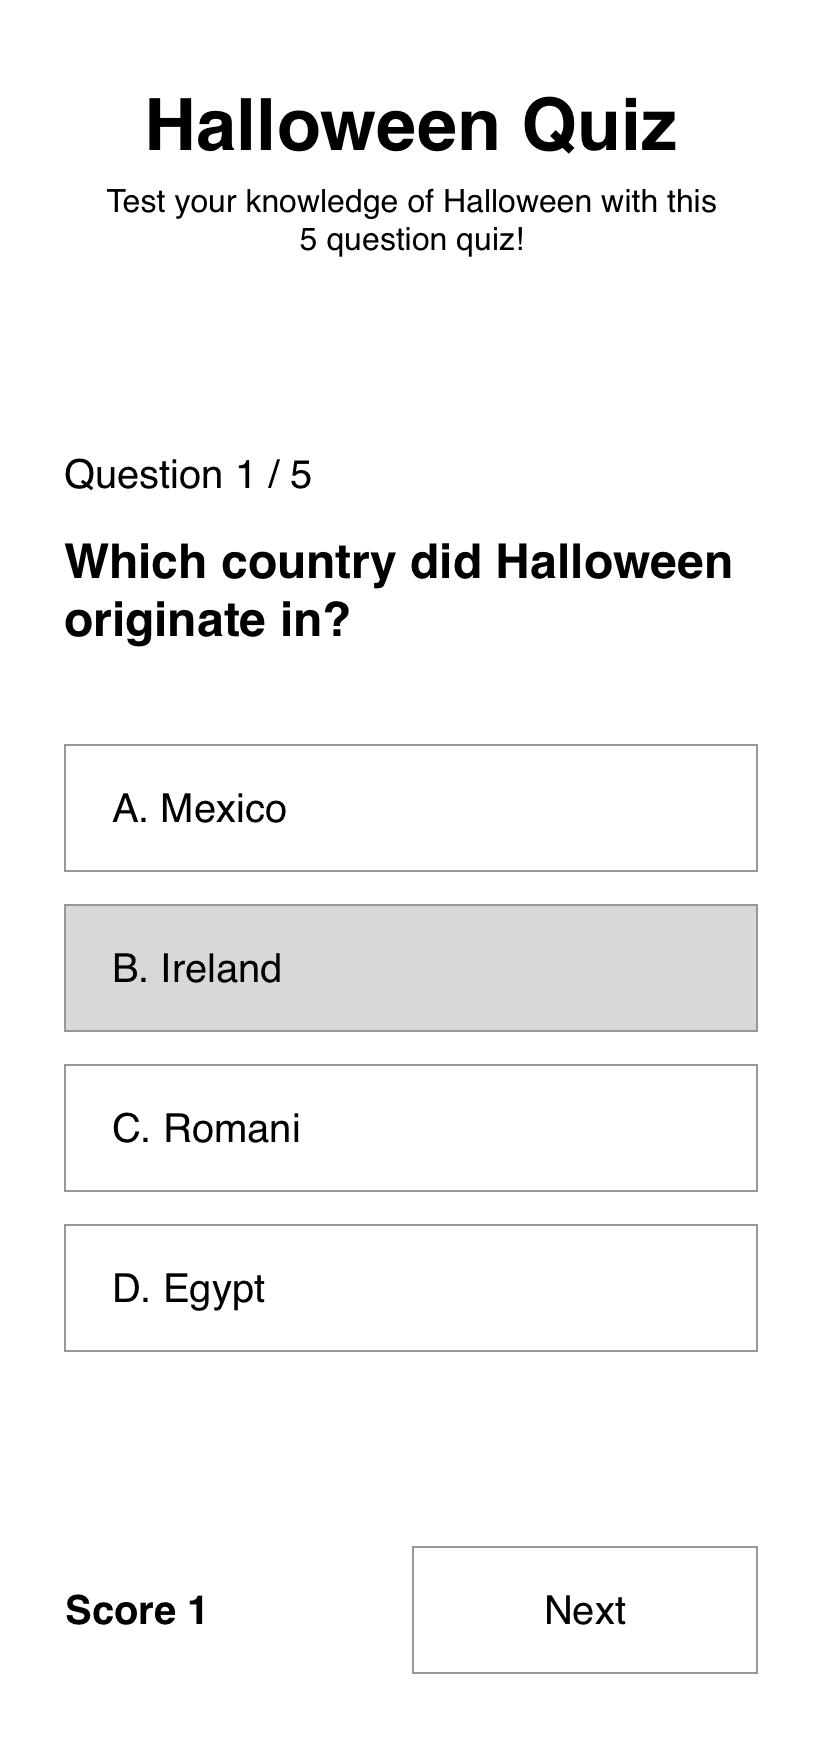
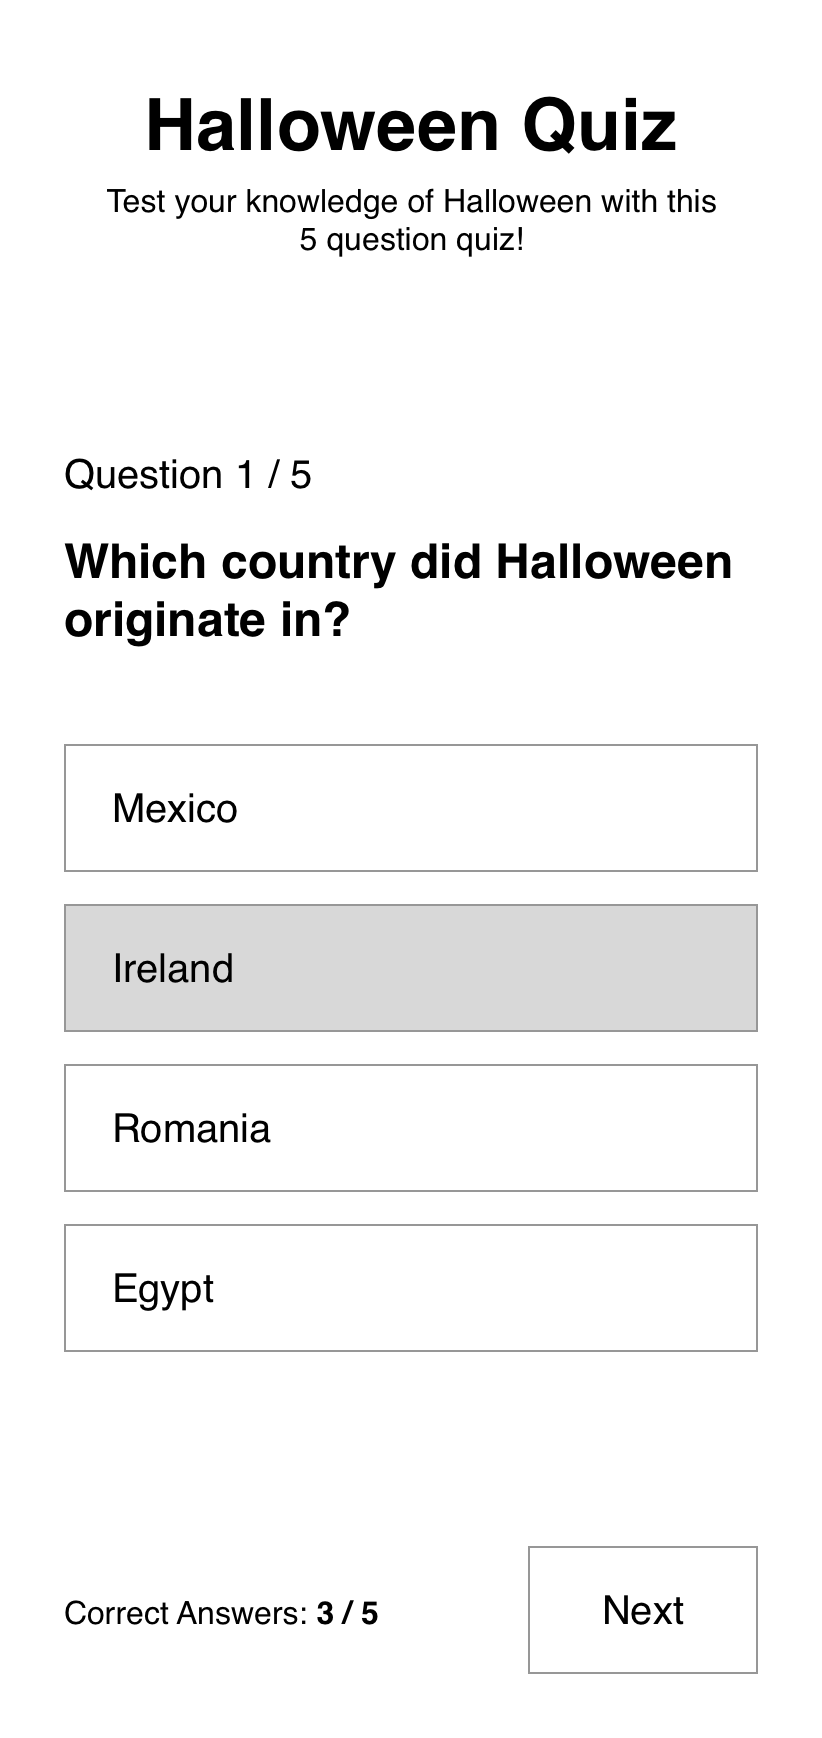
Add assets and finalized prototype

diff --git a/index.html b/index.html
@@ -9,6 +9,145 @@
     <link rel="stylesheet" href="main.css">
 </head>
 <body>
-    
+    <header class="header">
+        <h1 class="header__text">Halloween Quiz</h1>
+        <p class="header__description">Test your knowledge of Halloween with this 5 question quiz!</p>
+    </header>
+    <main class="main">
+        <article>
+            <section class="center">
+                <button class="button">Start Quiz!</button>
+            </section>
+            <section>
+                <form class="question">
+                    <h3 class="question__number">Question 1 / 5</h3>
+                    <h2 class="question__text">Which country did Halloween originate in?</h2>
+                    <ul>
+                        <li class="answer">
+                            <label for="q1a">Mexico</label>
+                            <input type="radio" id="q1a" name="q1" value="Mexico">
+                        </li>
+                        <li class="answer answer--selected">
+                            <label for="q1b">Ireland</label>
+                            <input type="radio" id="q1b" name="q1" value="Ireland">
+                        </li>
+                        <li class="answer">
+                            <label for="q1c">Romania</label>
+                            <input type="radio" id="q1c" name="q1" value="Romania">
+                        </li>
+                        <li class="answer">
+                            <label for="q1d">Egypt</label>
+                            <input type="radio" id="q1d" name="q1" value="Egypt">
+                        </li>
+                    </ul>
+                </form>
+            </section>
+            <section>
+                <form class="question">
+                    <h3 class="question__number">Question 2 / 5</h3>
+                    <h2 class="question__text">What is the color order of a piece of candy corn from base to point?</h2>
+                    <ul>
+                        <li class="answer">
+                            <label for="q2a">Orange (base), Yellow (middle), White (point)</label>
+                            <input type="radio" id="q2a" name="q2" value="Orange (base), Yellow (middle), White (point)">
+                        </li>
+                        <li class="answer">
+                            <label for="q2b">Green (base), Yellow (middle), White (point)</label>
+                            <input type="radio" id="q2b" name="q2" value="Green (base), Yellow (middle), White (point)">
+                        </li>
+                        <li class="answer answer--selected">
+                            <label for="q2c">Yellow (base), White (middle), Orange (point)</label>
+                            <input type="radio" id="q2c" name="q2" value="Yellow (base), White (middle), Orange (point)">
+                        </li>
+                        <li class="answer">
+                            <label for="q2d">White (base), Orange (middle), Yellow (point)</label>
+                            <input type="radio" id="q2d" name="q2" value="White (base), Orange (middle), Yellow (point)">
+                        </li>
+                    </ul>
+                </form>
+            </section>
+            <section>
+                <form class="question">
+                    <h3 class="question__number">Question 3 / 5</h3>
+                    <h2 class="question__text">How many people were hung during the Salem Witch Trials?</h2>
+                    <ul>
+                        <li class="answer">
+                            <label for="q3a">13</label>
+                            <input type="radio" id="q3a" name="q3" value="13">
+                        </li>
+                        <li class="answer answer--selected">
+                            <label for="q3b">19</label>
+                            <input type="radio" id="q3b" name="q3" value="19">
+                        </li>
+                        <li class="answer">
+                            <label for="q3c">25</label>
+                            <input type="radio" id="q3c" name="q3" value="25">
+                        </li>
+                        <li class="answer">
+                            <label for="q3d">32</label>
+                            <input type="radio" id="q3d" name="q3" value="32">
+                        </li>
+                    </ul>
+                </form>
+            </section>
+            <section>
+                <form class="question">
+                    <h3 class="question__number">Question 4 / 5</h3>
+                    <h2 class="question__text">Who wrote the classic novel ‘Dracula?’</h2>
+                    <ul>
+                        <li class="answer">
+                            <label for="q4a">Mary Shelly</label>
+                            <input type="radio" id="q4a" name="q4" value="Mary Shelly">
+                        </li>
+                        <li class="answer">
+                            <label for="q4b">Edgar Allen Poe</label>
+                            <input type="radio" id="q4b" name="q4" value="Edgar Allen Poe">
+                        </li>
+                        <li class="answer">
+                            <label for="q4c">H.P. Lovecraft</label>
+                            <input type="radio" id="q4c" name="q4" value="H.P. Lovecraft">
+                        </li>
+                        <li class="answer answer--selected">
+                            <label for="q4d">Bram Stoker</label>
+                            <input type="radio" id="q4d" name="q4" value="Bram Stoker">
+                        </li>
+                    </ul>
+                </form>
+            </section>
+            <section>
+                <form class="question">
+                    <h3 class="question__number">Question 5 / 5</h3>
+                    <h2 class="question__text">Which horror movie icon has the highest on-screen body count?</h2>
+                    <ul>
+                        <li class="answer answer--selected">
+                            <label for="q5a">Jason Vorhees - Friday the 13th series</label>
+                            <input type="radio" id="q5a" name="q5" value="Jason Vorhees - Friday the 13th series">
+                        </li>
+                        <li class="answer">
+                            <label for="q5b">Freddy Krueger - A Nightmare on Elm Street series</label>
+                            <input type="radio" id="q5b" name="q5" value="Freddy Krueger - A Nightmare on Elm Street series">
+                        </li>
+                        <li class="answer">
+                            <label for="q5c">Michael Myers - Halloween series</label>
+                            <input type="radio" id="q5c" name="q5" value="Michael Myers - Halloween series">
+                        </li>
+                        <li class="answer">
+                            <label for="q5d">Leatherface - The Texas Chainsaw Massacre series</label>
+                            <input type="radio" id="q5d" name="q5" value="Leatherface - The Texas Chainsaw Massacre series">
+                        </li>
+                    </ul>
+                </form>
+            </section>
+            <section class="center">
+                <h2>Congratulations!</h2>
+                <p>You got 3 answers out of 5 correct.</p>
+                <button class="button">Retry</button>
+            </section>
+        </article>
+    </main>
+    <footer class="footer">
+        <p class="footer__score">Correct Answers: <strong class="footer__count">3 / 5</strong></p>
+        <button class="footer__control">Next</button>
+    </footer>
 </body>
 </html>

diff --git a/main.css b/main.css
@@ -1,3 +1,90 @@
+/* Quiz layout CSS */
 body {
+    display: flex;
+    flex-direction: column;
+    height: 100vh;
+    width: 100vw;
     font-family: Arial, Helvetica, sans-serif;
+}
+.header {
+    flex: 1;
+    padding: 2rem 2rem 0;
+    text-align: center;
+}
+.main {
+    flex: 3;
+    padding: 0 2rem;
+}
+.footer {
+    display: flex;
+    padding: 0 2rem 2rem;
+}
+@media all and (min-width: 64rem) {
+    body {
+        align-items: center;
+    }
+    .header, .main, .footer {
+        width: 50rem;
+    }
+}
+
+/* Element zero out CSS */
+h1, h2, h3 {
+    margin: 0;
+}
+ul {
+    padding-left: 0;
+    list-style: none;
+}
+input[type=radio] {
+    opacity: 0;
+}
+
+.center {
+    display: flex;
+    flex-direction: column;
+}
+.button {
+    height: 3rem;
+    padding: 0 2rem;
+    align-self: center;
+    justify-self: center;
+    margin-top: 1rem;
+    background-color: transparent;
+    border: 0.0625rem solid #979797;
+}
+
+/* Quiz Form CSS */
+.question__number {
+    margin-bottom: 1rem;
+    font-size: 1rem;
+    font-weight: 400;
+}
+.question__text {
+    margin-bottom: 3rem;
+    font-size: 1.25rem;
+    font-weight: 700;
+}
+.answer {
+    display: flex;
+    align-items: center;
+    height: 4rem;
+    margin-bottom: 1rem;
+    padding: 0 1.5rem;
+    border: 0.0625rem solid #979797;
+}
+.answer--selected {
+    background-color: #D8D8D8;
+}
+
+/* Footer styling CSS */
+.footer__score {
+    flex: 2;
+    align-self: center;
+}
+.footer__control {
+    flex: 1;
+    height: 3rem;
+    background-color: transparent;
+    border: 0.0625rem solid #979797;
 }
